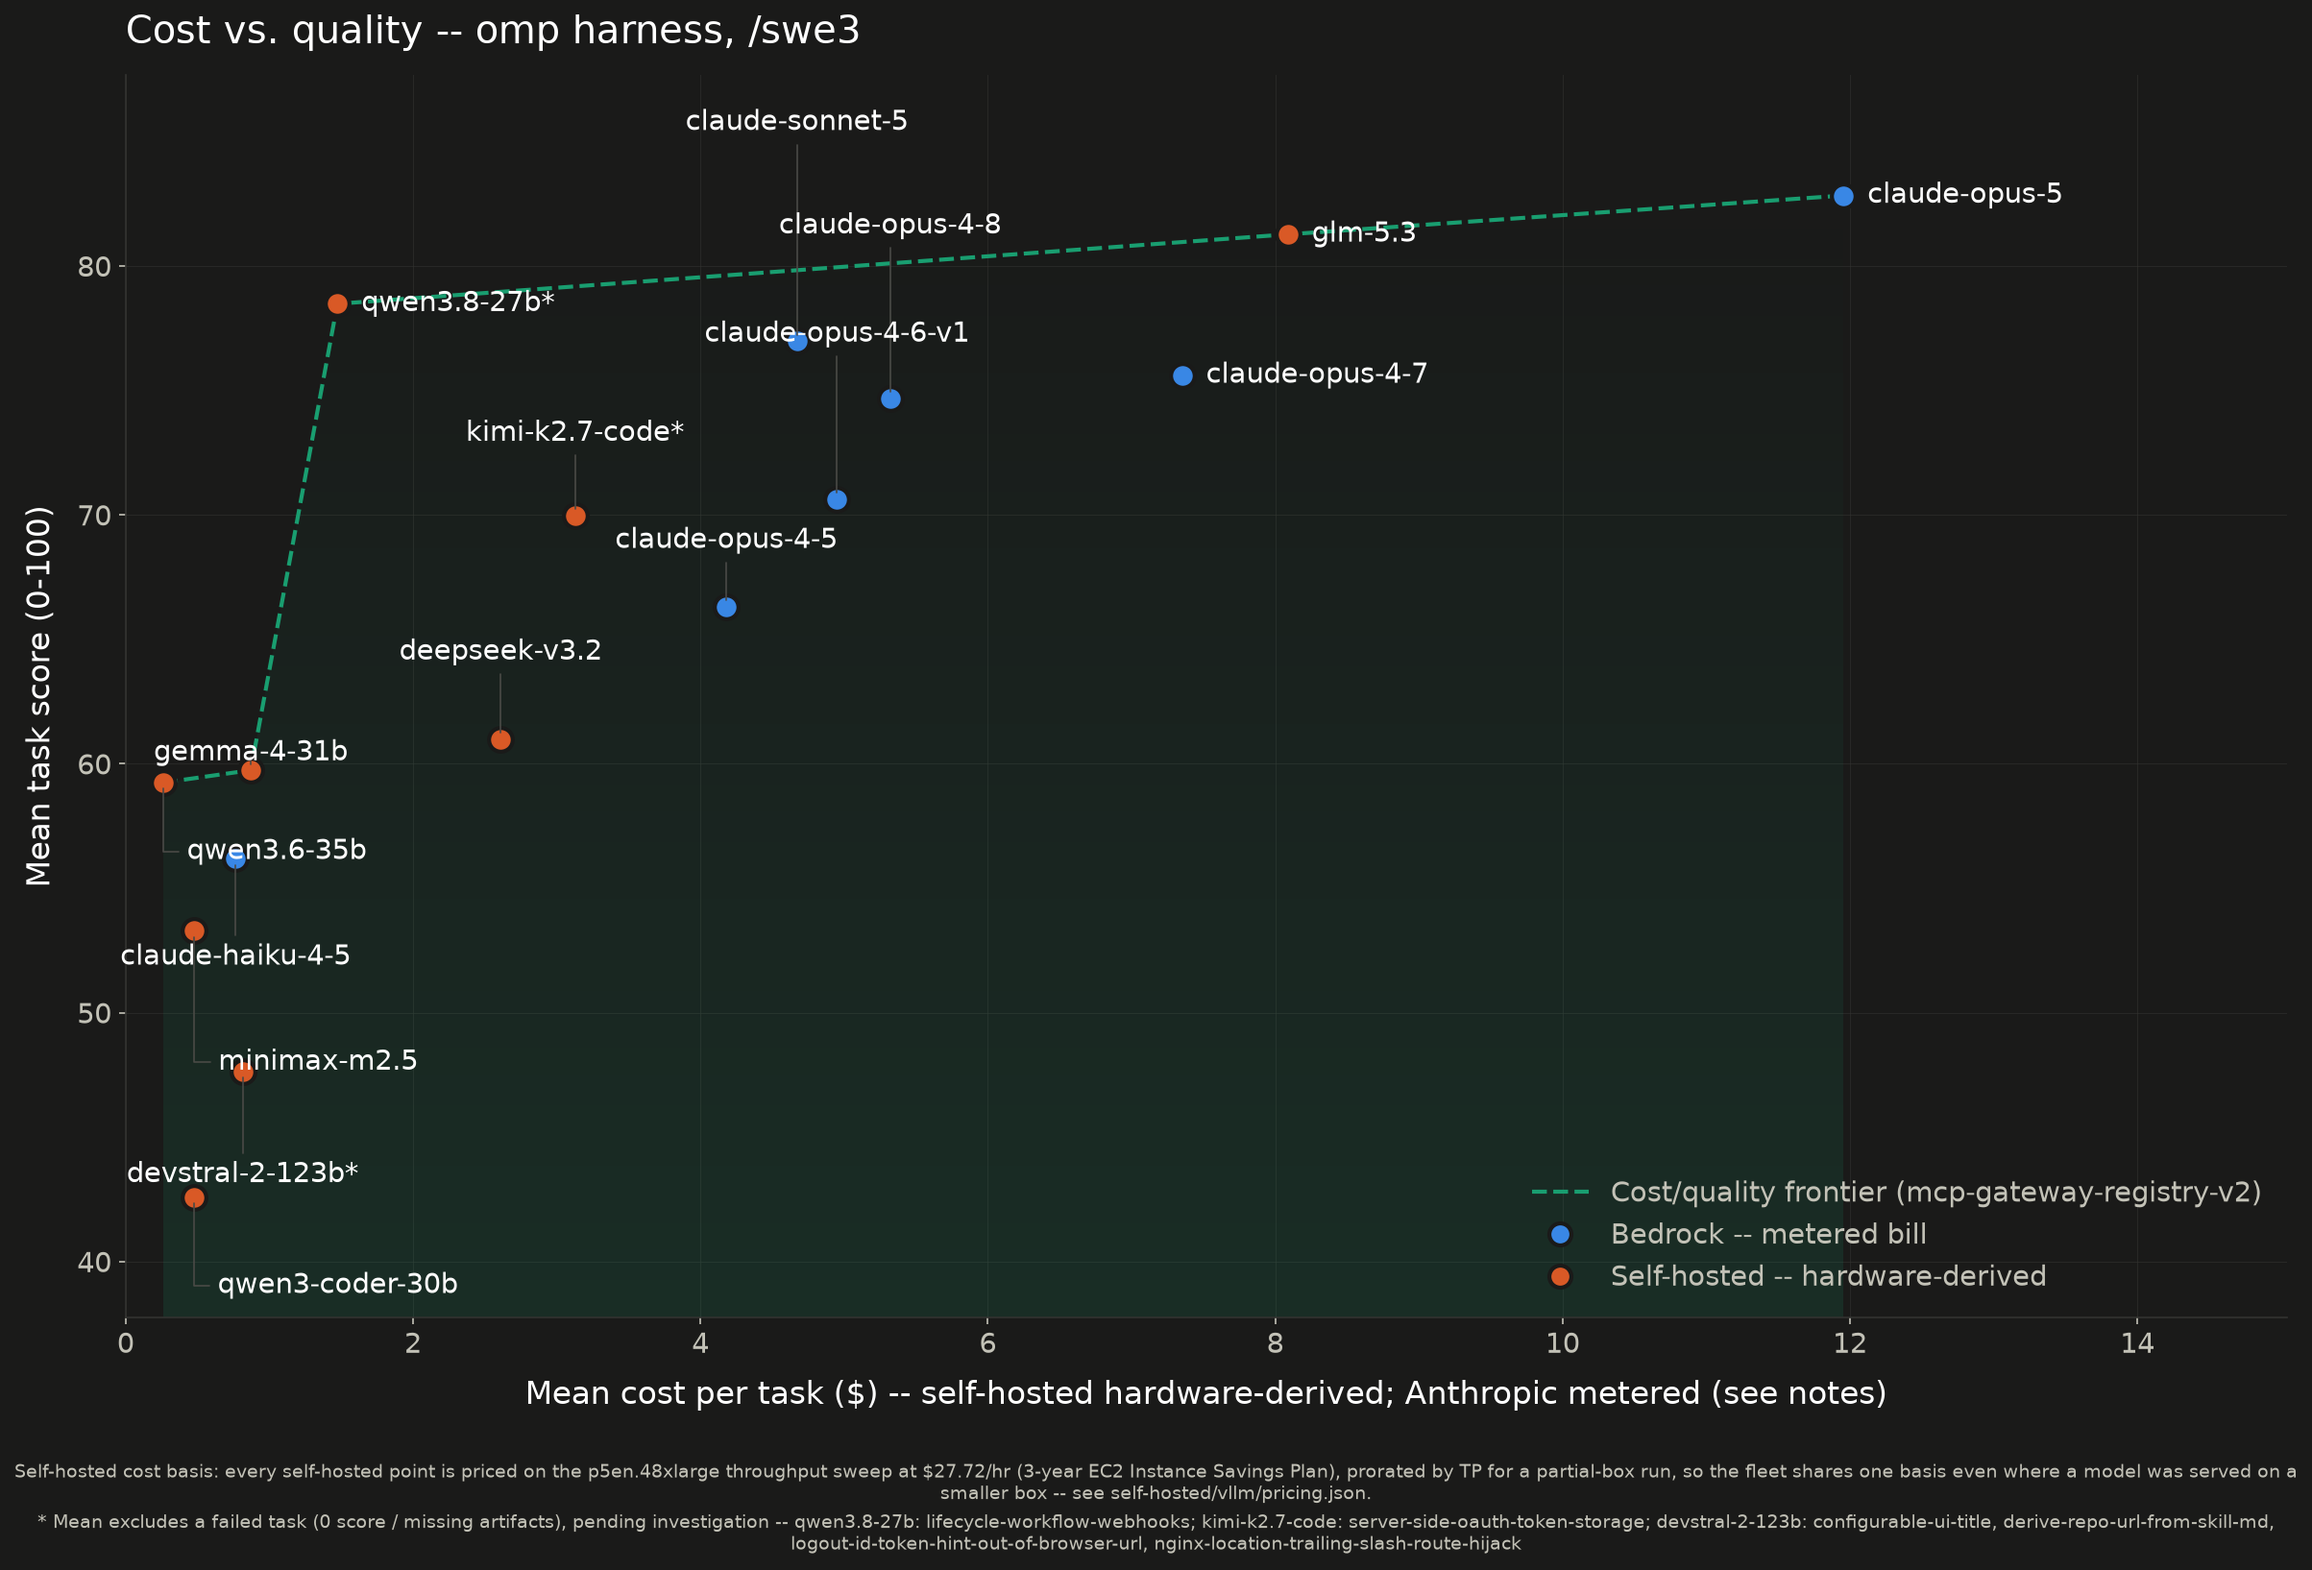
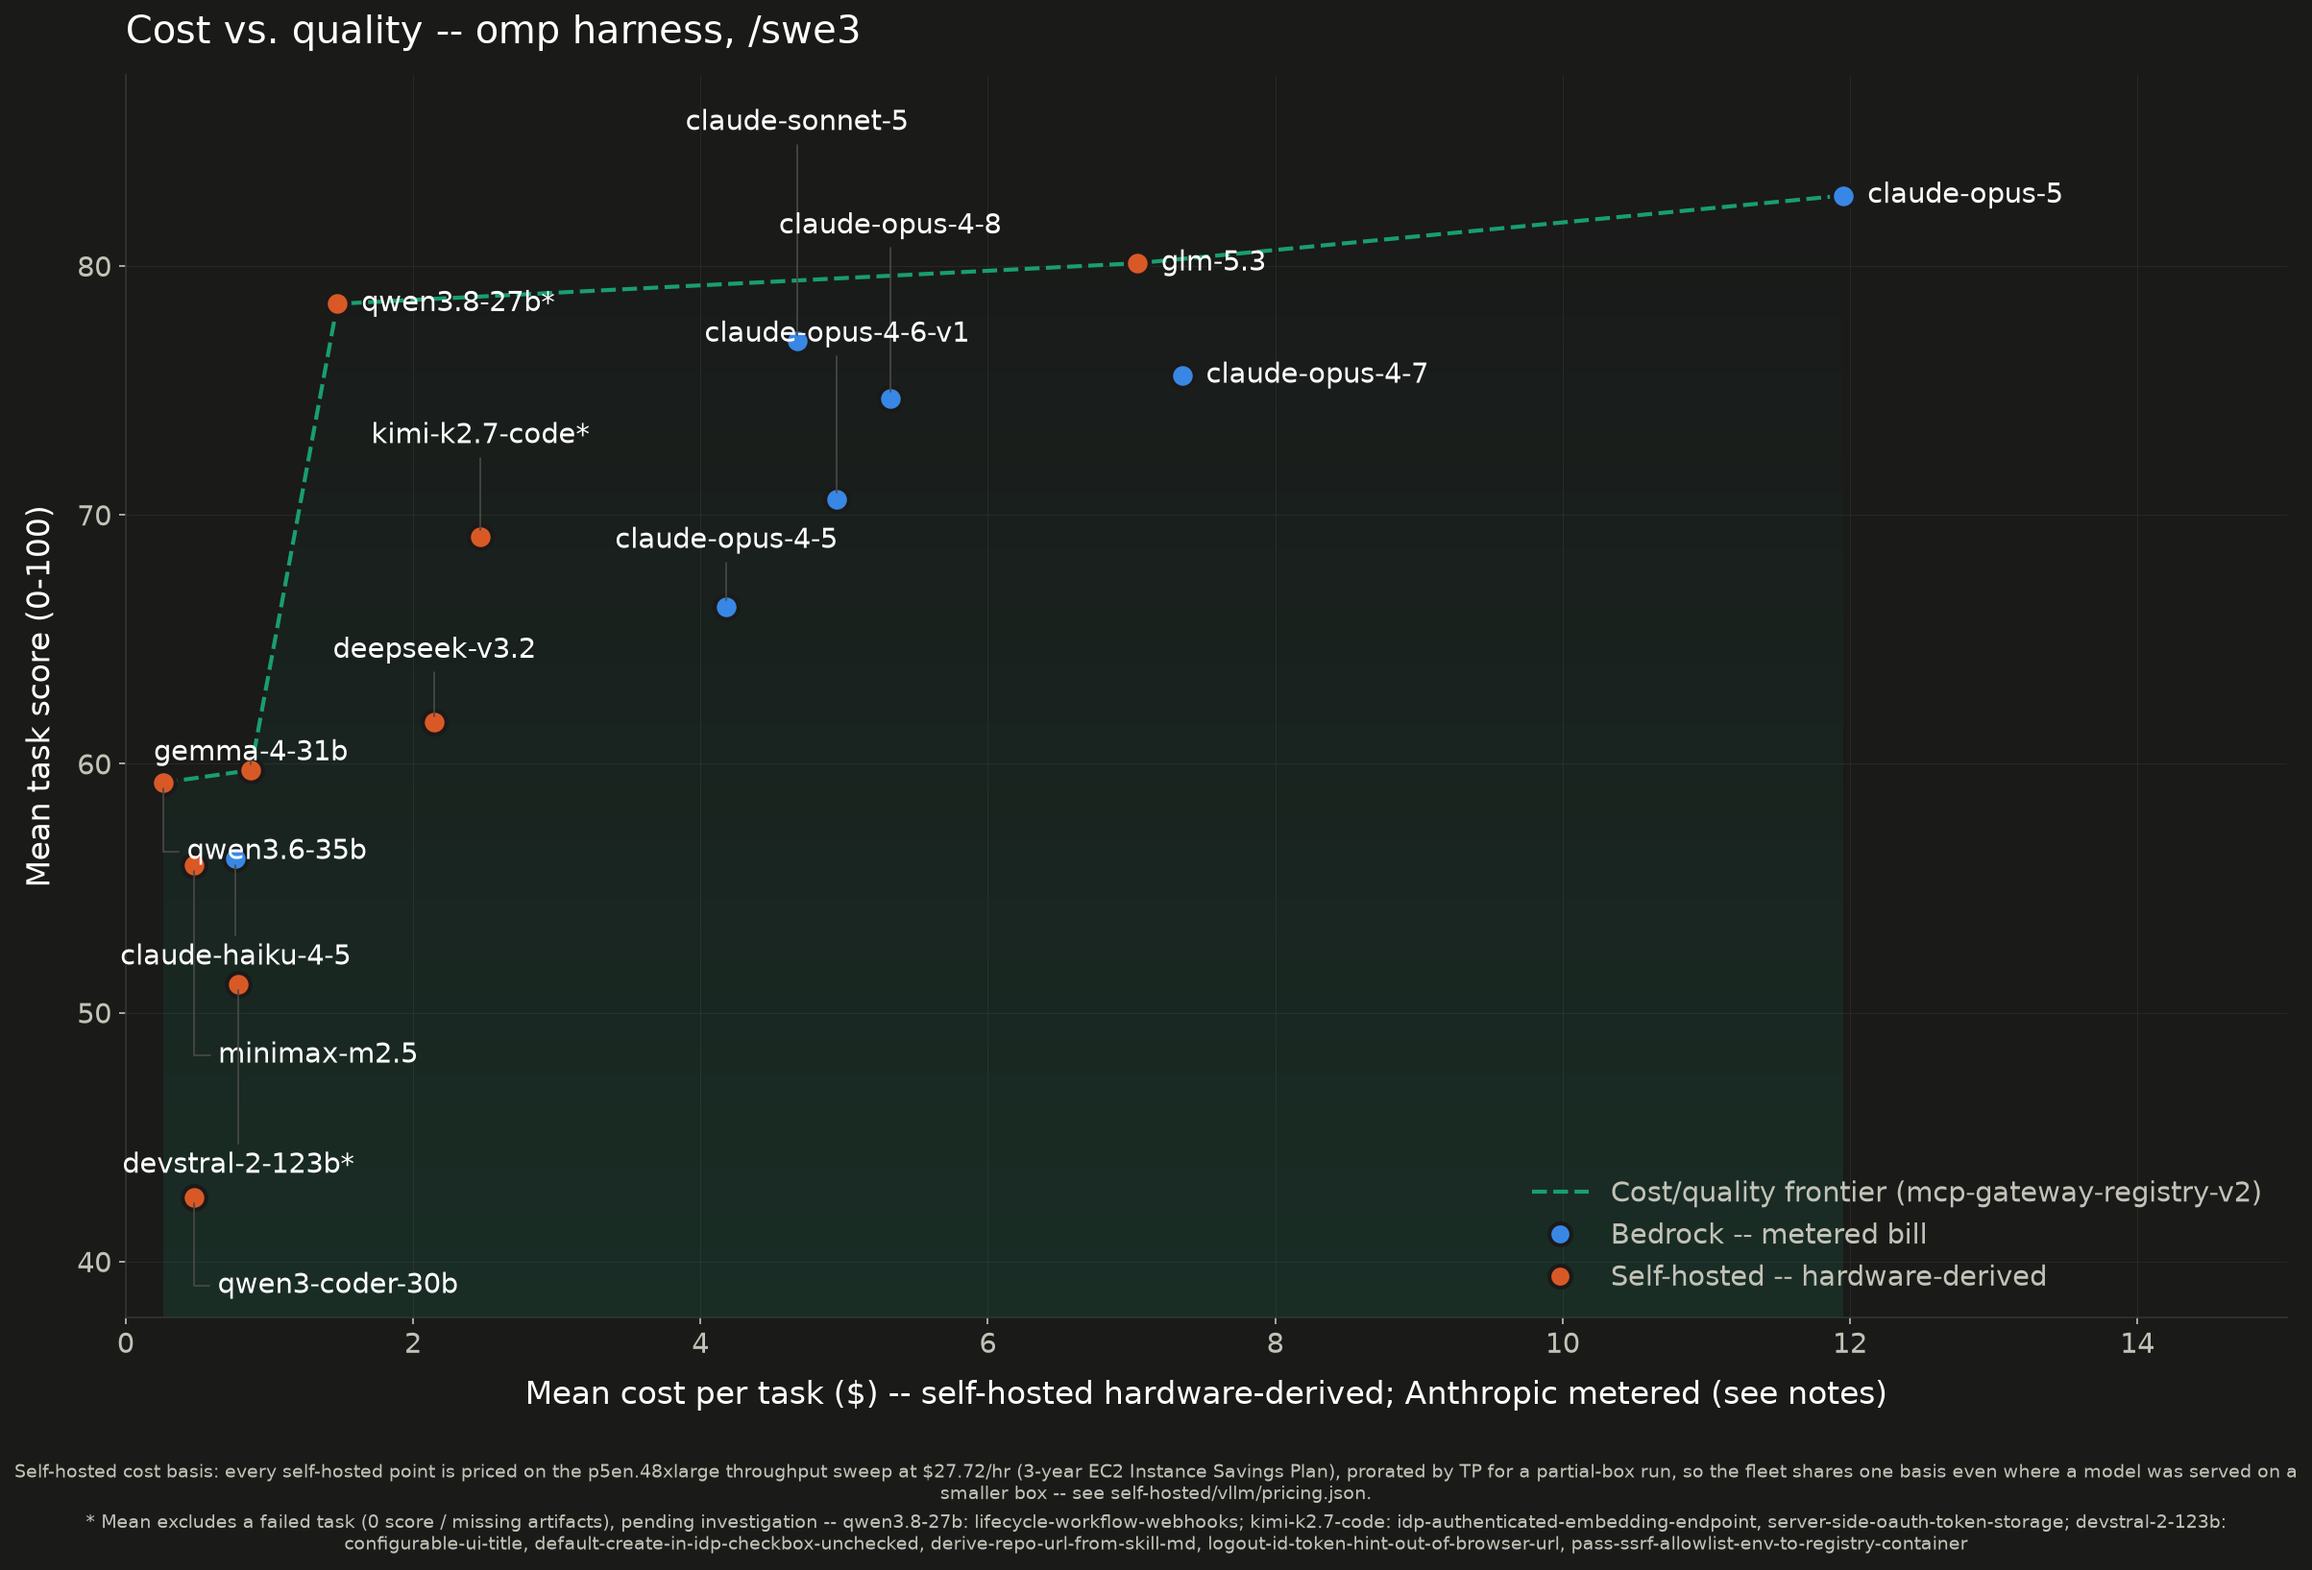
fix(omp-swe3): regenerate frontier, models.json and README tables after the self-hosted re-run
The re-run updated the 5 self-hosted models' run-summaries but not the derived artifacts, so the data-consistency tests failed (models.json no longer matched the recomputed tier means).

- Regenerate docs/metrics/pareto-frontier-omp-swe3.json and the cost-quality charts from the fresh run-summaries (plot_cost_quality.py).
- Rebuild vend/swe-router/models.json (build_vended_models.py) and the four README tier tables from it.
- devstral-2-123b now passes 4 of 6 medium tasks (was 3), so update that completion assertion.

Costs shifted with the token-accounting fix (glm-5.3 $8.09->$7.04, kimi-k2.7-code $3.13->$2.47, deepseek-v3.2 $2.61->$2.15), which reorders the cheapest-first tables.

diff --git a/benchmarks/tests/test_build_vended_models.py b/benchmarks/tests/test_build_vended_models.py
@@ -176,11 +176,11 @@ class CommittedArtifactTest(unittest.TestCase):
             )
 
     def test_failed_tasks_are_excluded_from_tier_means(self) -> None:
-        # devstral-2-123b failed 3 of 6 medium tasks. Averaging those zeros in
+        # devstral-2-123b failed 2 of 6 medium tasks. Averaging those zeros in
         # would put its tier means below the overall score they sit beside.
         payload = bvm.build(bvm.DEFAULT_SOURCE, _REPO_ROOT)
         d = next(m for m in payload["models"] if m["model"] == "devstral-2-123b")
-        self.assertEqual(d["completion_by_complexity"]["medium"], "3/6")
+        self.assertEqual(d["completion_by_complexity"]["medium"], "4/6")
         self.assertGreater(d["score_by_complexity"]["medium"], 30.0)
 
     def test_tier_scores_bracket_the_overall_mean(self) -> None:

diff --git a/vend/swe-router/README.md b/vend/swe-router/README.md
@@ -188,19 +188,19 @@ A bold completion count means the model failed at least one task at that tier, w
 |---:|---|---:|:-:|
 | $0.26 | `qwen3.6-35b` | 58.4 | 5/5 |
 | $0.47 | `qwen3-coder-30b` | 45.6 | 5/5 |
-| $0.48 | `minimax-m2.5` | 50.2 | 5/5 |
+| $0.48 | `minimax-m2.5` | 54.7 | 5/5 |
 | $0.76 | `claude-haiku-4-5` | 55.4 | 5/5 |
-| $0.82 | `devstral-2-123b` | 46.9 | 5/5 |
+| $0.79 | `devstral-2-123b` | 56.5 | **4/5** |
 | $0.87 | `gemma-4-31b` | 66.5 | 5/5 |
 | $1.47 | `qwen3.8-27b` | 81.4 | 5/5 |
-| $2.61 | `deepseek-v3.2` | 64.9 | 5/5 |
-| $3.13 | `kimi-k2.7-code` | 70.7 | 5/5 |
+| $2.15 | `deepseek-v3.2` | 64.4 | 5/5 |
+| $2.47 | `kimi-k2.7-code` | 72.4 | 5/5 |
 | $4.18 | `claude-opus-4-5` | 68.8 | 5/5 |
 | $4.67 | `claude-sonnet-5` | 76.1 | 5/5 |
 | $4.95 | `claude-opus-4-6-v1` | 74.2 | 5/5 |
 | $5.32 | `claude-opus-4-8` | 73.8 | 5/5 |
+| $7.04 | `glm-5.3` | 85.0 | 5/5 |
 | $7.35 | `claude-opus-4-7` | 77.8 | 5/5 |
-| $8.09 | `glm-5.3` | 81.5 | 5/5 |
 | $11.95 | `claude-opus-5` | 83.8 | 5/5 |
 
 **`low`** — scan down until the score clears your floor.
@@ -209,19 +209,19 @@ A bold completion count means the model failed at least one task at that tier, w
 |---:|---|---:|:-:|
 | $0.26 | `qwen3.6-35b` | 62.5 | 5/5 |
 | $0.47 | `qwen3-coder-30b` | 48.4 | 5/5 |
-| $0.48 | `minimax-m2.5` | 52.0 | 5/5 |
+| $0.48 | `minimax-m2.5` | 60.2 | 5/5 |
 | $0.76 | `claude-haiku-4-5` | 57.8 | 5/5 |
-| $0.82 | `devstral-2-123b` | 58.1 | **4/5** |
+| $0.79 | `devstral-2-123b` | 61.3 | **3/5** |
 | $0.87 | `gemma-4-31b` | 63.3 | 5/5 |
 | $1.47 | `qwen3.8-27b` | 80.9 | 5/5 |
-| $2.61 | `deepseek-v3.2` | 65.2 | 5/5 |
-| $3.13 | `kimi-k2.7-code` | 74.9 | 5/5 |
+| $2.15 | `deepseek-v3.2` | 63.9 | 5/5 |
+| $2.47 | `kimi-k2.7-code` | 71.7 | 5/5 |
 | $4.18 | `claude-opus-4-5` | 66.2 | 5/5 |
 | $4.67 | `claude-sonnet-5` | 80.5 | 5/5 |
 | $4.95 | `claude-opus-4-6-v1` | 75.4 | 5/5 |
 | $5.32 | `claude-opus-4-8` | 81.1 | 5/5 |
+| $7.04 | `glm-5.3` | 82.6 | 5/5 |
 | $7.35 | `claude-opus-4-7` | 77.0 | 5/5 |
-| $8.09 | `glm-5.3` | 84.4 | 5/5 |
 | $11.95 | `claude-opus-5` | 86.2 | 5/5 |
 
 **`medium`** — scan down until the score clears your floor.
@@ -230,19 +230,19 @@ A bold completion count means the model failed at least one task at that tier, w
 |---:|---|---:|:-:|
 | $0.26 | `qwen3.6-35b` | 59.9 | 6/6 |
 | $0.47 | `qwen3-coder-30b` | 40.8 | 6/6 |
-| $0.48 | `minimax-m2.5` | 55.3 | 6/6 |
+| $0.48 | `minimax-m2.5` | 57.2 | 6/6 |
 | $0.76 | `claude-haiku-4-5` | 57.8 | 6/6 |
-| $0.82 | `devstral-2-123b` | 43.1 | **3/6** |
+| $0.79 | `devstral-2-123b` | 51.0 | **4/6** |
 | $0.87 | `gemma-4-31b` | 59.3 | 6/6 |
 | $1.47 | `qwen3.8-27b` | 78.7 | 6/6 |
-| $2.61 | `deepseek-v3.2` | 60.9 | 6/6 |
-| $3.13 | `kimi-k2.7-code` | 69.8 | 6/6 |
+| $2.15 | `deepseek-v3.2` | 62.1 | 6/6 |
+| $2.47 | `kimi-k2.7-code` | 69.6 | 6/6 |
 | $4.18 | `claude-opus-4-5` | 67.9 | 6/6 |
 | $4.67 | `claude-sonnet-5` | 77.5 | 6/6 |
 | $4.95 | `claude-opus-4-6-v1` | 68.3 | 6/6 |
 | $5.32 | `claude-opus-4-8` | 73.3 | 6/6 |
+| $7.04 | `glm-5.3` | 78.5 | 6/6 |
 | $7.35 | `claude-opus-4-7` | 73.6 | 6/6 |
-| $8.09 | `glm-5.3` | 81.8 | 6/6 |
 | $11.95 | `claude-opus-5` | 81.8 | 6/6 |
 
 **`high`** — scan down until the score clears your floor.
@@ -251,19 +251,19 @@ A bold completion count means the model failed at least one task at that tier, w
 |---:|---|---:|:-:|
 | $0.26 | `qwen3.6-35b` | 56.0 | 5/5 |
 | $0.47 | `qwen3-coder-30b` | 35.8 | 5/5 |
-| $0.48 | `minimax-m2.5` | 55.2 | 5/5 |
+| $0.48 | `minimax-m2.5` | 51.4 | 5/5 |
 | $0.76 | `claude-haiku-4-5` | 53.4 | 5/5 |
-| $0.82 | `devstral-2-123b` | 42.7 | 5/5 |
+| $0.79 | `devstral-2-123b` | 40.8 | 5/5 |
 | $0.87 | `gemma-4-31b` | 50.0 | 5/5 |
 | $1.47 | `qwen3.8-27b` | 71.5 | **4/5** |
-| $2.61 | `deepseek-v3.2` | 53.0 | 5/5 |
-| $3.13 | `kimi-k2.7-code` | 63.1 | **4/5** |
+| $2.15 | `deepseek-v3.2` | 56.0 | 5/5 |
+| $2.47 | `kimi-k2.7-code` | 58.5 | **3/5** |
 | $4.18 | `claude-opus-4-5` | 62.0 | 5/5 |
 | $4.67 | `claude-sonnet-5` | 73.7 | 5/5 |
 | $4.95 | `claude-opus-4-6-v1` | 65.1 | 5/5 |
 | $5.32 | `claude-opus-4-8` | 70.8 | 5/5 |
+| $7.04 | `glm-5.3` | 74.7 | 5/5 |
 | $7.35 | `claude-opus-4-7` | 74.4 | 5/5 |
-| $8.09 | `glm-5.3` | 77.2 | 5/5 |
 | $11.95 | `claude-opus-5` | 79.8 | 5/5 |
 
 ### Where the numbers stop
